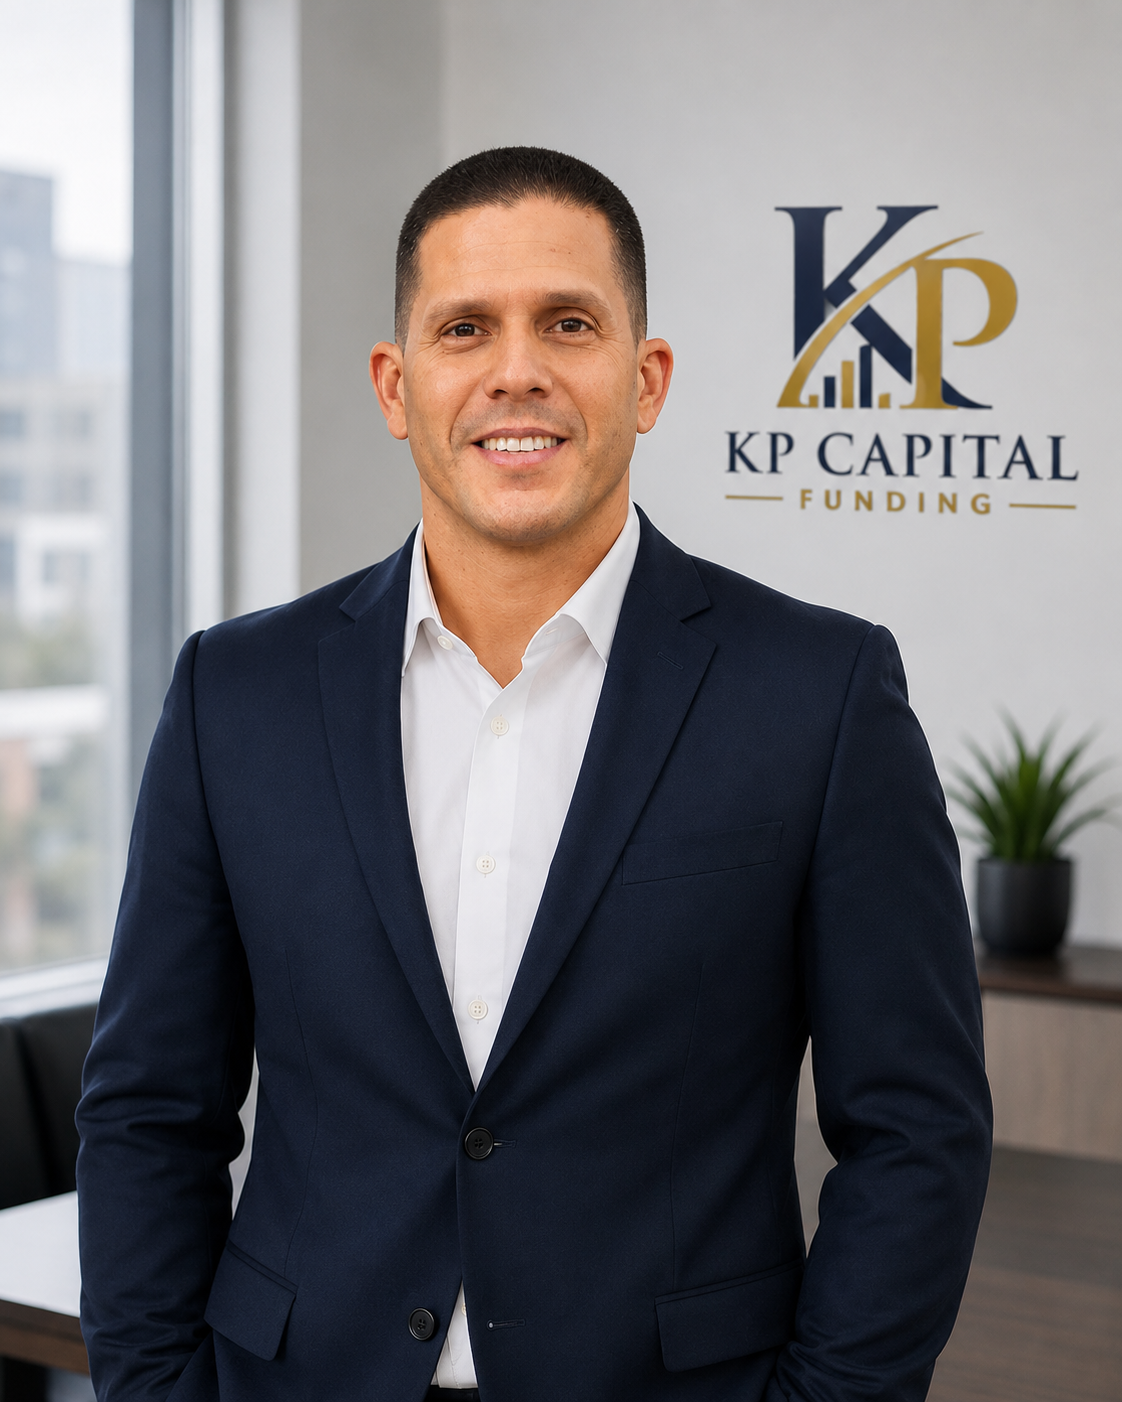
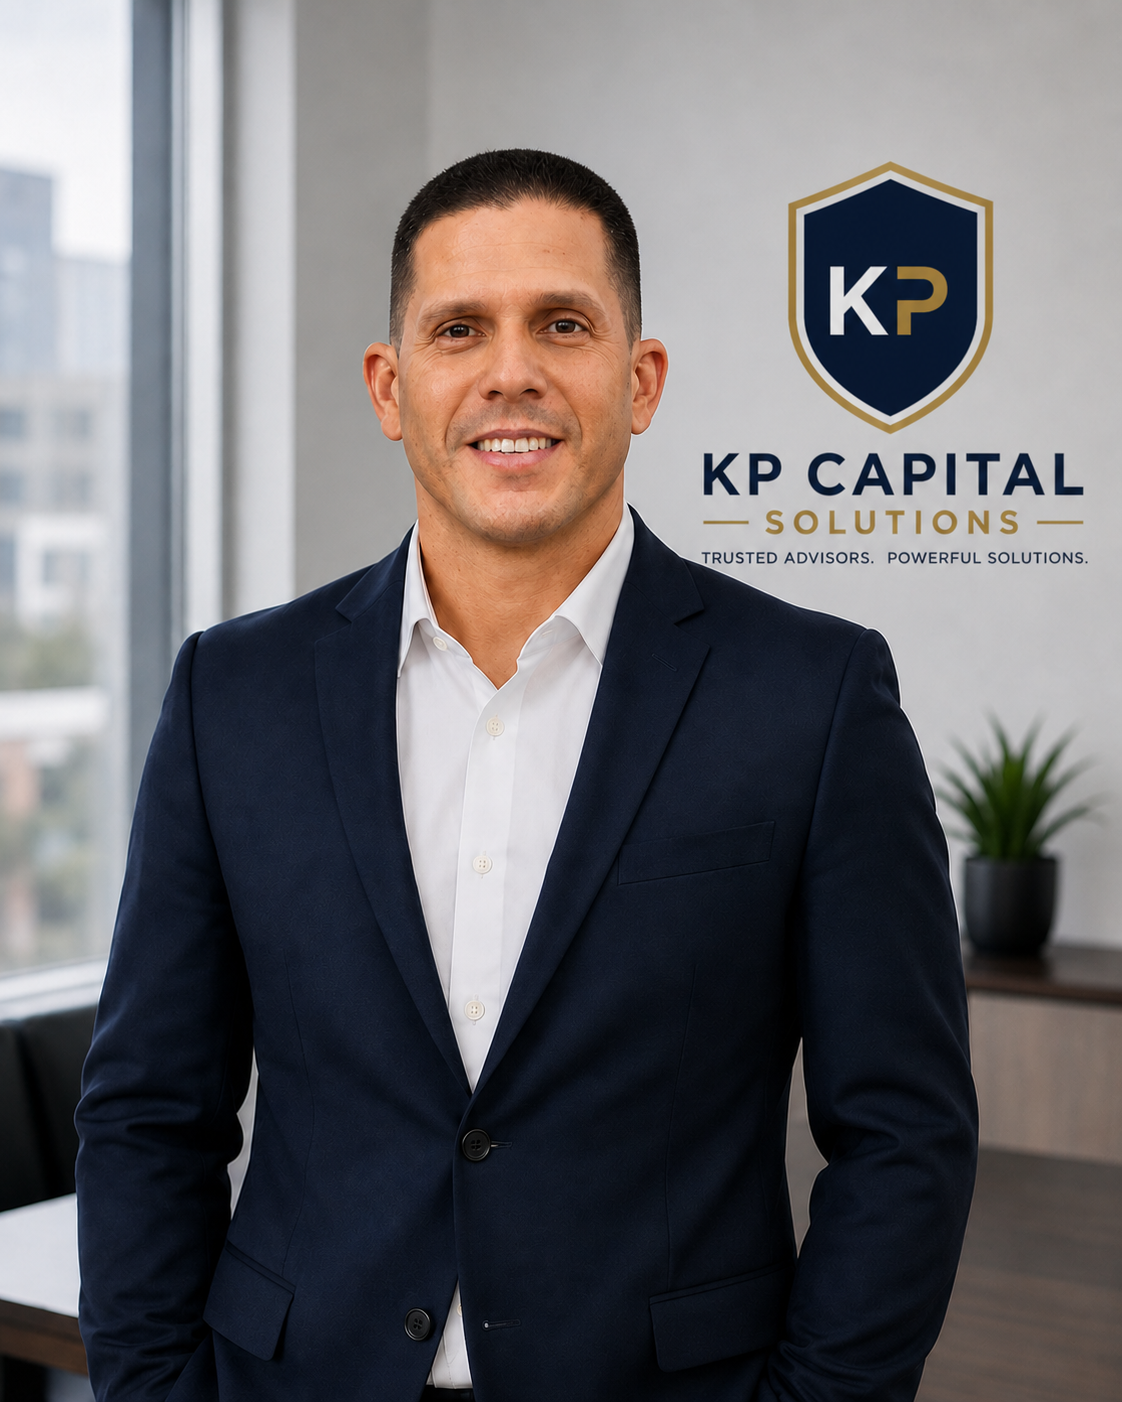
Update KP Capital branding and website images

diff --git a/calculator-app/src/components/SiteLayout.tsx b/calculator-app/src/components/SiteLayout.tsx
@@ -1,7 +1,7 @@
 import { useEffect, useMemo, useState } from 'react';
 import { Link, NavLink, Outlet, useLocation } from 'react-router-dom';
 import { Mail, MapPin, Menu, Phone, X } from 'lucide-react';
-import mainLogo from "../assets/logos/Main-Logo.png";
+import mainLogo from "../assets/logos/kp-capital-logo-horizontal_white.svg";
 
 const navItems = [
   { label: 'Home', to: '/' },
@@ -80,13 +80,7 @@ export function SiteLayout() {
           </nav>
 
           <div className="hidden items-center gap-4 lg:flex">
-            <Link
-              to="/contact"
-              className="btn-outline border-white/30 px-4 py-2 text-xs hover:border-white hover:bg-white hover:text-navy-900"
-            >
-              Check Eligibility
-            </Link>
-            <Link to="/book-call" className="btn-primary px-4 py-2 text-xs">
+             <Link to="/book-call" className="btn-primary px-4 py-2 text-xs">
               Book Strategy Call
             </Link>
           </div>
@@ -106,9 +100,6 @@ export function SiteLayout() {
             <nav className="flex flex-col gap-4 px-6 py-4">
               {mobileNav}
               <div className="mt-2 flex flex-col gap-3 border-t border-white/10 pt-4">
-                <Link to="/contact" className="btn-outline w-full justify-center">
-                  Check Eligibility
-                </Link>
                 <Link to="/book-call" className="btn-primary w-full justify-center">
                   Book Strategy Call
                 </Link>

diff --git a/calculator-app/src/pages/MarketingPages.tsx b/calculator-app/src/pages/MarketingPages.tsx
@@ -3,7 +3,7 @@ import { Link } from 'react-router-dom';
 
 import kenBgImage from '../assets/images/ken-bg.png';
 import bgImage from '../assets/images/bg.webp';
-import kenImage from '../assets/images/KenV4.png';
+import kenImage from '../assets/images/Ken.png';
 
 import { BackgroundPaths } from '../components/ui/background-paths';
 import { GHLIframe } from '../components/GHLIframe';
